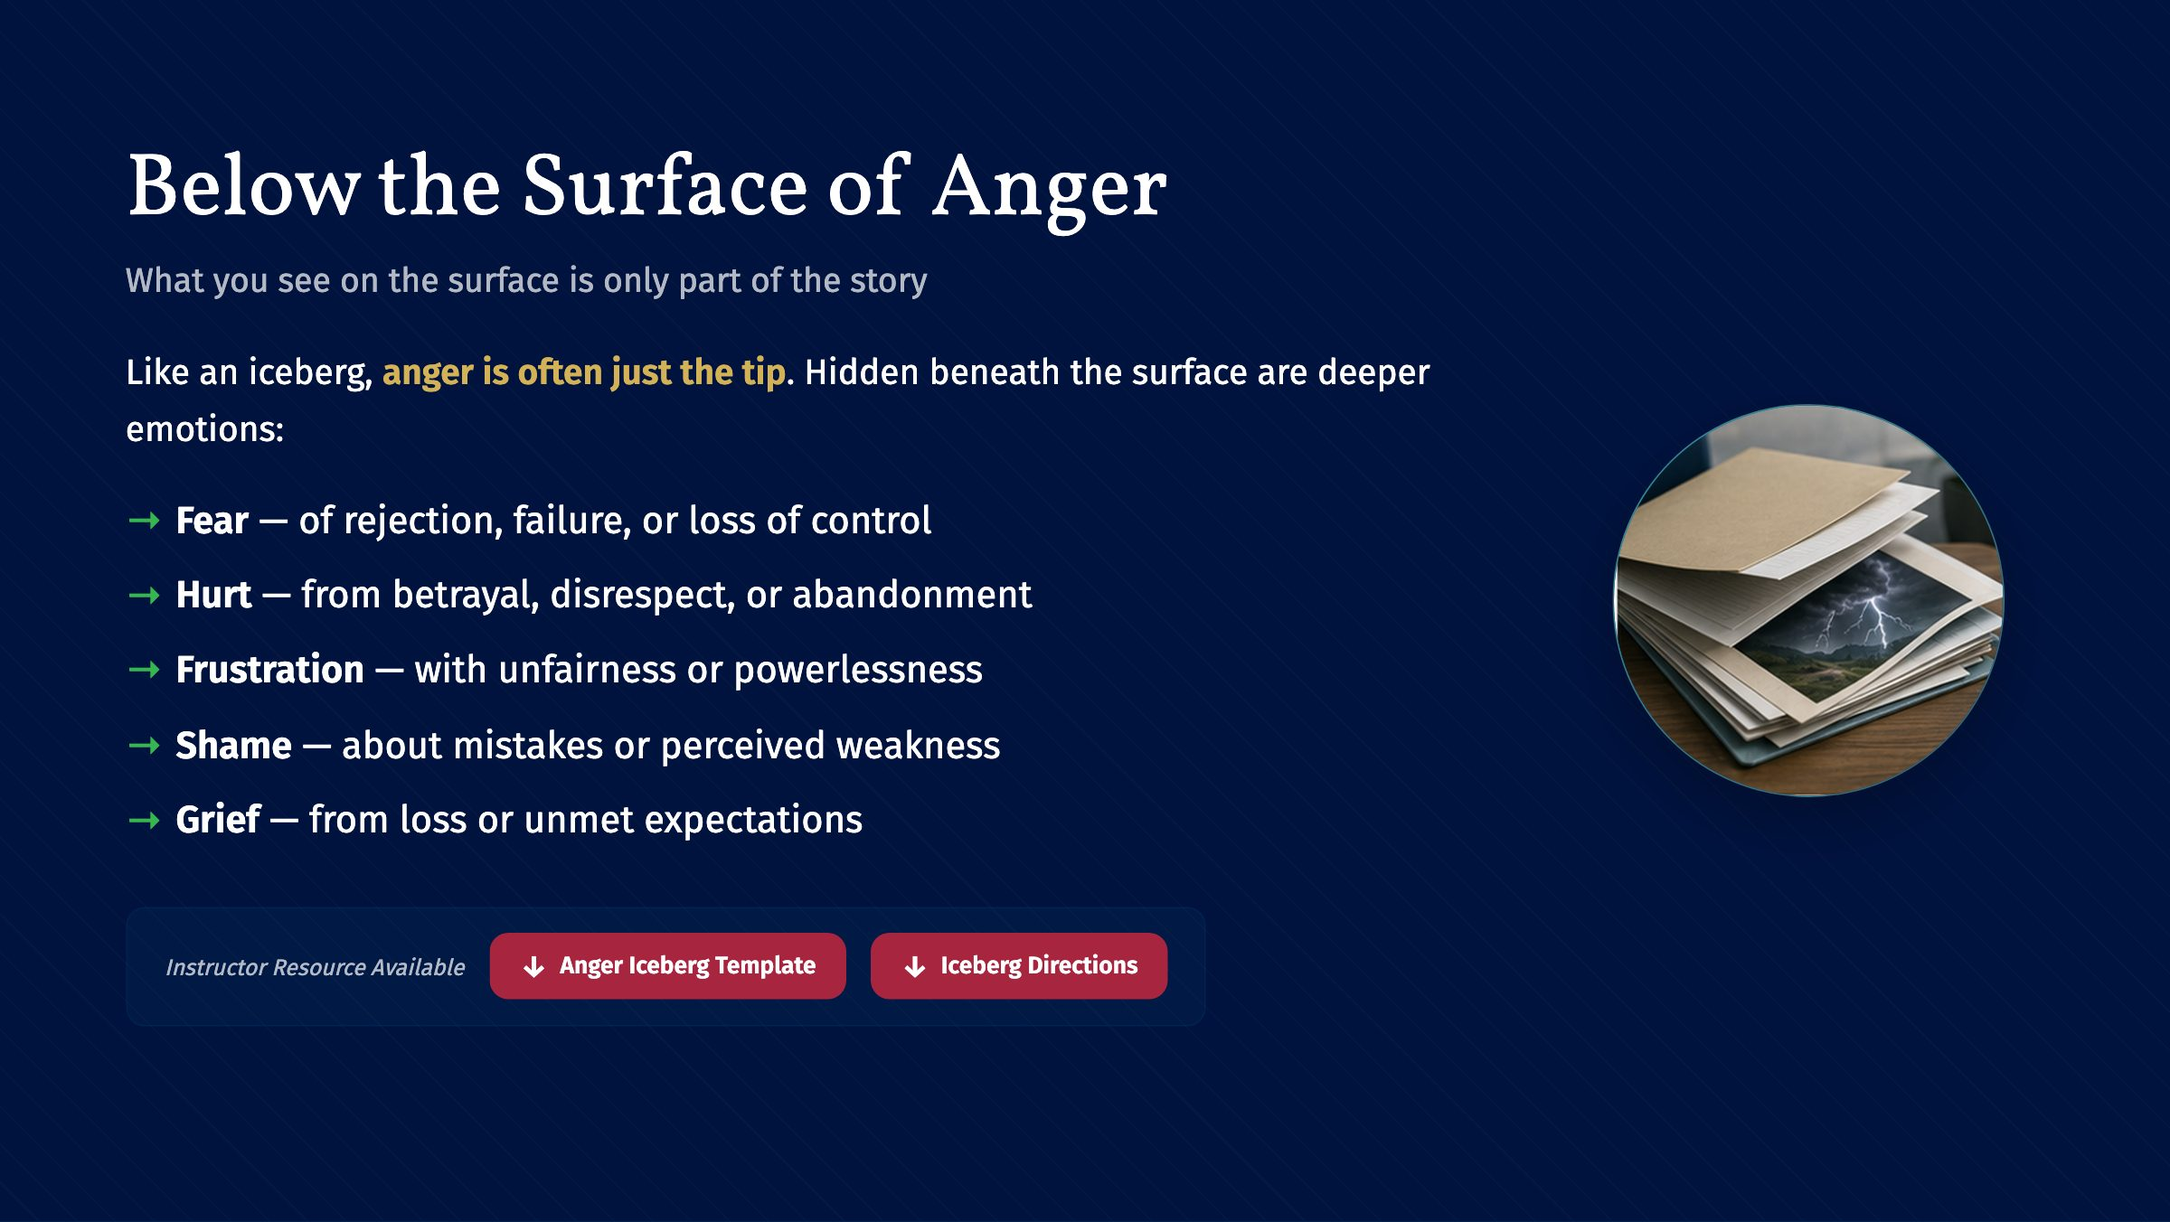
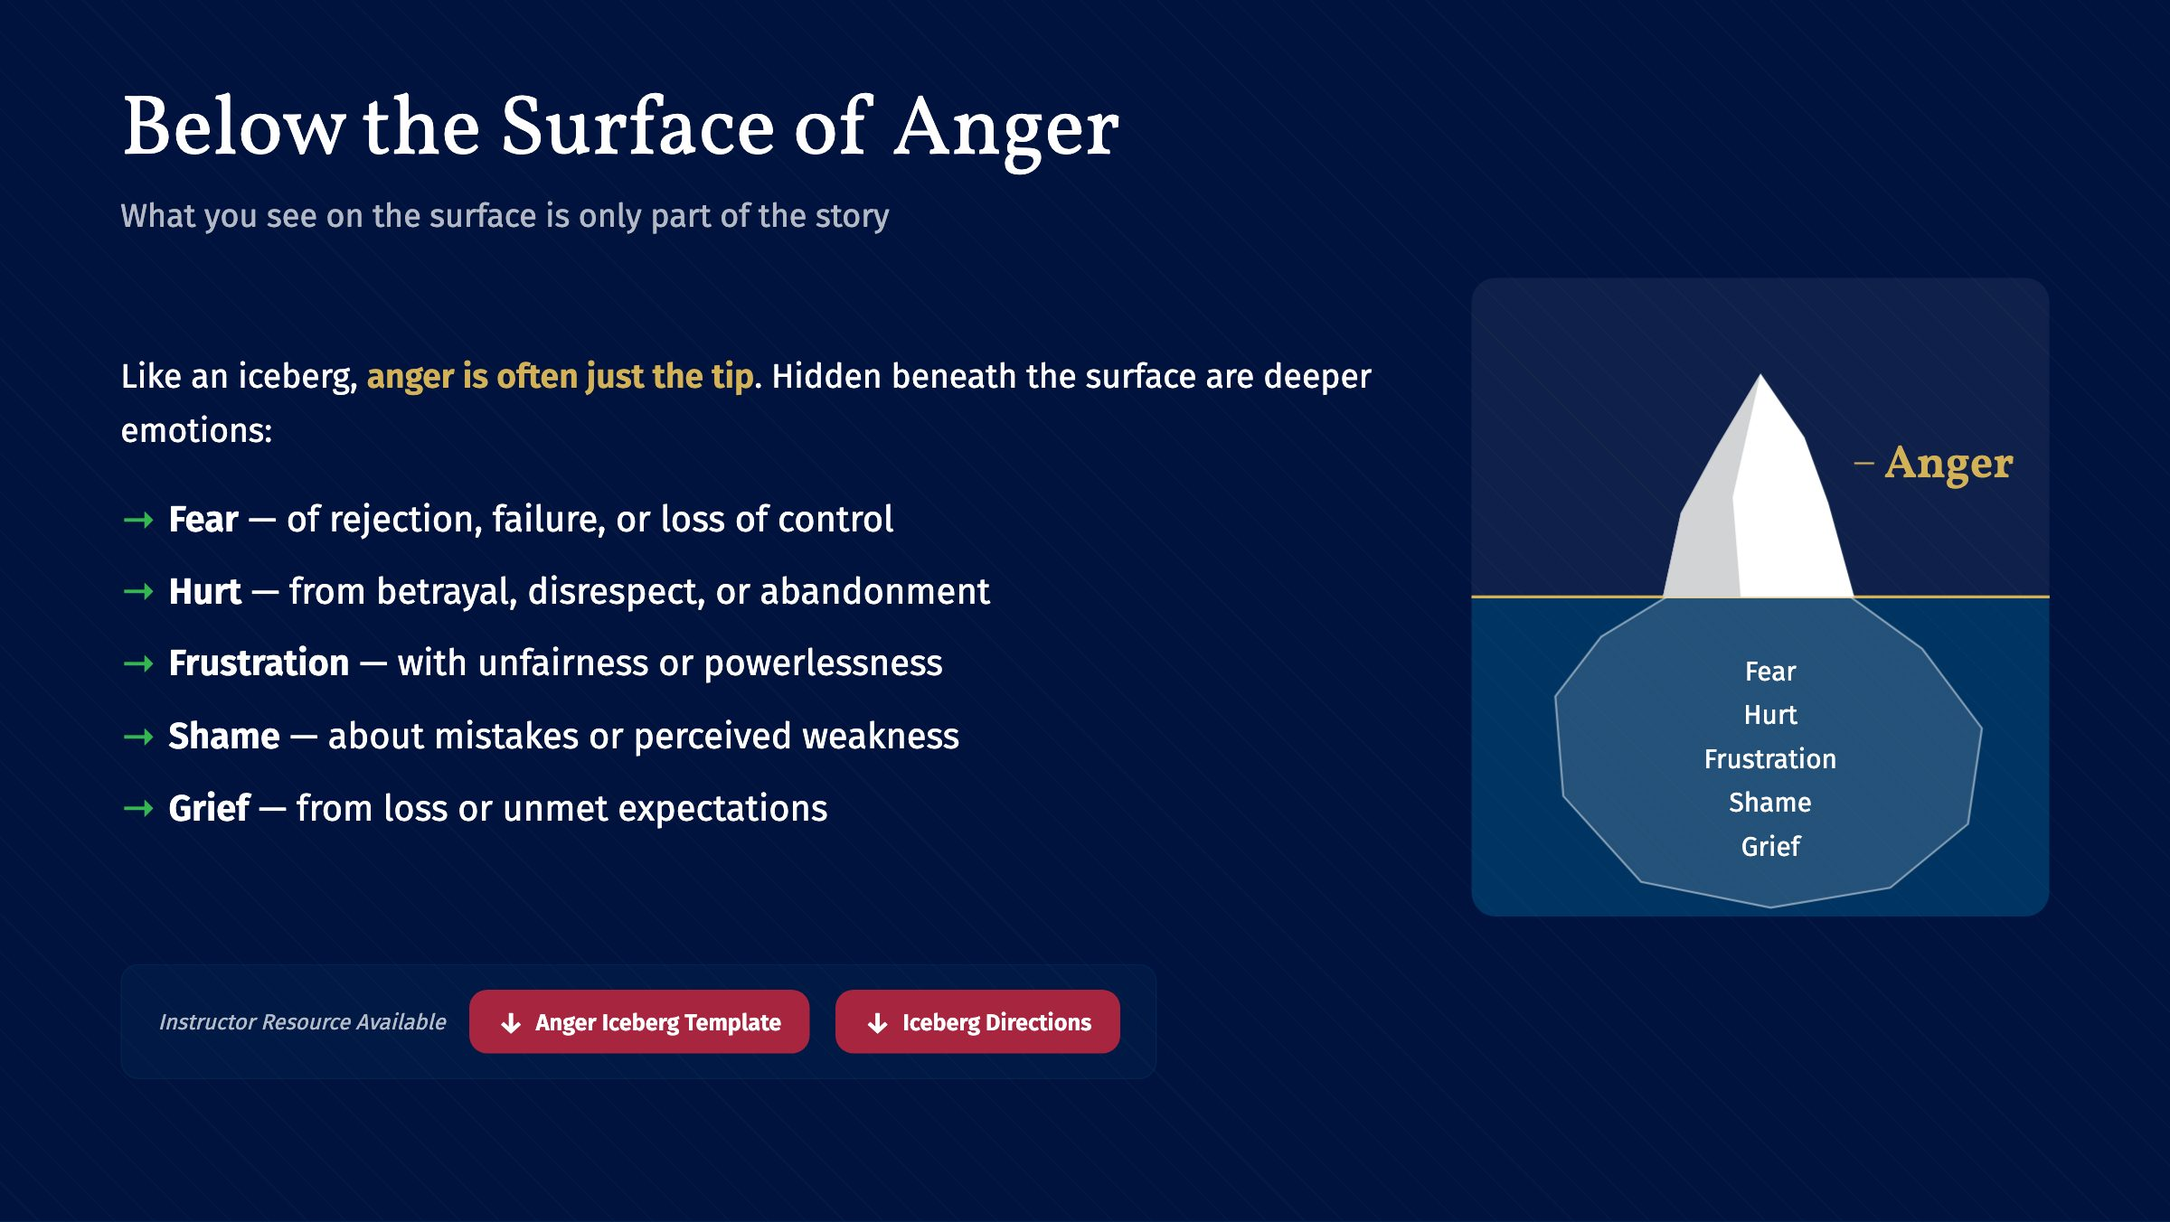
feat: draw the Anger Iceberg on the Controlling Anger cover, lesson and closing
- Showcase Level 3 pilot. The iceberg is drawn in the page from palette
  colors: on the cover, on slide 9 in place of the small round picture,
  and on the closing. Cover and closing share one scene, a gold waterline
  across the slide with the title above it and the subtitle below.
- Motion: the tip and the word Anger appear, then the hidden mass and the
  five feelings surface in turn, once, on the cover and on slide 9. The
  closing is still. Reduced motion and print show the finished picture.
- The closing's take-home line is now its largest text.
- Every closing carries the rubric button (Britt): added here and on
  Problem Solving, where it was missing. File links mark when each file
  is used in class, so none moved.
- The sea is a layer over a plain royal slide, so BeSpoke still reads the
  title background as solid and no ready-made look shares more than 5
  choices with this lesson.
- Slide 9 drawn at 94% for the larger picture. Phones keep the old cover
  and closing; the drawing shows on slide 9 there.
- Print pictures retaken, fingerprints regenerated.

diff --git a/lesson-controlling-anger/index.html b/lesson-controlling-anger/index.html
@@ -2969,15 +2969,6 @@
       .slide-video h2 { margin-bottom: 1rem; }
       .slide-video .video-wrapper { max-width: min(73.125rem, calc((100vh - 14.75rem) * 16 / 9)); }
 
-      /* Slide 1 (title): the cover logo is 14.5rem wide, the size it
-         had on a 1920x1080 screen before this change; the heading's own
-         padding is 1.25rem; and the gaps under the subtitle and the two
-         buttons are tighter. */
-      .slide-title .logo { max-width: 14.5rem; margin-bottom: 1.25rem; }
-      .slide-title h1 { padding-top: 1.25rem; padding-bottom: 1.25rem; }
-      .slide-title .subtitle { margin-bottom: 1rem; }
-      .slide-title .title-resource-links { margin-bottom: 1.25rem; }
-
       /* Slide 26 (statement): the discussion box sits 1.25rem under the
          line above it with 1rem of its own padding. Its margin is set
          inline, so that needs !important. */
@@ -3117,6 +3108,218 @@
     /* Sidebar "P" badges: white on the --accent green was 2.66:1 at 0.6rem.
        Royal is 6.77:1 (navy --dark would reach only 4.00:1). */
     .wippea-badge.p { color: var(--royal); }
+
+    /* Showcase Level 3 2026-11: the Anger Iceberg, this lesson's one picture.
+       It is drawn in the page from palette colors, so it is sharp on any
+       screen and needs no image file. It appears three times: on the cover,
+       on slide 9 where the idea is taught, and on the closing. Sizes inside
+       the drawing are attributes in the drawing's own units, not CSS px, so
+       the px-to-rem converter leaves them alone. */
+    .iceberg { display: block; overflow: visible; }
+    .iceberg .ib-water { stroke: var(--gold); stroke-width: 3; }
+    .iceberg .ib-below { fill: rgba(255, 255, 255, 0.14); stroke: rgba(255, 255, 255, 0.5); stroke-width: 2; }
+    .iceberg .ib-tip { fill: var(--light); }
+    .iceberg .ib-tip-shade { fill: var(--offwhite); }
+    .iceberg .ib-lead { stroke: var(--gold); stroke-width: 2; }
+    .iceberg .ib-anger { font-family: var(--font-heading); font-weight: 600; fill: var(--gold); }
+    .iceberg .ib-feelings { font-family: var(--font-body); fill: var(--light); }
+
+    /* Motion: the picture builds in the order the lesson teaches it. The tip
+       and its name are there first, then what is hidden surfaces: the mass
+       below the water, then each feeling in turn. It plays once when the
+       slide opens, on the cover and on slide 9 (slower there, for talking
+       over). The closing is still; the confetti plays there. With animation
+       off (reduced motion, print) the finished picture shows. */
+    @keyframes ibFade { from { opacity: 0; } to { opacity: 1; } }
+    @keyframes ibSurface { from { opacity: 0; transform: translateY(18px); } to { opacity: 1; transform: none; } }
+    .slide-title.active .ib-anger, .slide-title.active .ib-lead,
+    .iceberg-slide.active .ib-anger, .iceberg-slide.active .ib-lead { animation: ibFade 0.6s ease-out 0.5s both; }
+    .slide-title.active .ib-below,
+    .iceberg-slide.active .ib-below { animation: ibSurface 1.1s cubic-bezier(0.16, 1, 0.3, 1) 0.9s both; }
+    .slide-title.active .ib-feelings text,
+    .iceberg-slide.active .ib-feelings text { animation: ibSurface 0.7s cubic-bezier(0.16, 1, 0.3, 1) both; }
+    .slide-title.active .ib-feelings text:nth-child(1) { animation-delay: 1.6s; }
+    .slide-title.active .ib-feelings text:nth-child(2) { animation-delay: 1.82s; }
+    .slide-title.active .ib-feelings text:nth-child(3) { animation-delay: 2.04s; }
+    .slide-title.active .ib-feelings text:nth-child(4) { animation-delay: 2.26s; }
+    .slide-title.active .ib-feelings text:nth-child(5) { animation-delay: 2.48s; }
+    .iceberg-slide.active .ib-feelings text:nth-child(1) { animation-delay: 1.8s; }
+    .iceberg-slide.active .ib-feelings text:nth-child(2) { animation-delay: 2.3s; }
+    .iceberg-slide.active .ib-feelings text:nth-child(3) { animation-delay: 2.8s; }
+    .iceberg-slide.active .ib-feelings text:nth-child(4) { animation-delay: 3.3s; }
+    .iceberg-slide.active .ib-feelings text:nth-child(5) { animation-delay: 3.8s; }
+
+    /* Slide 9: the iceberg stands where a small round picture was, in its own
+       panel with the sea drawn in. */
+    .split-visual .iceberg {
+      width: min(100%, 16rem);
+      height: auto;
+      border-radius: 1rem;
+      background: linear-gradient(to bottom, rgba(255, 255, 255, 0.06) 0 50%, rgba(0, 123, 175, 0.32) 50% 100%);
+    }
+    @media (min-width: 901px) {
+      .iceberg-slide .split-layout { gap: 3rem; }
+      .iceberg-slide .split-visual { flex: 0 0 24rem; }
+      .split-visual .iceberg { width: 100%; }
+    }
+
+    /* Phones keep the cover and the closing they have; the picture is on
+       slide 9 there. */
+    .slide-title .iceberg, .slide-closing .iceberg { display: none; }
+
+    @media (min-width: 769px) {
+      /* Cover and closing share one scene: a gold waterline across the whole
+         slide at mid-height, with the sea below it. Each picture is centered
+         on that line, so its own waterline (hidden here) lies along it. A
+         picture is at most 33.75rem wide: any larger and its lower edge
+         would reach the navigation hint. */
+      /* Two classes, so the plain royal ground out-ranks the theme's
+         `.theme-dark .slide-closing` mauve gradient. */
+      .slide.slide-title, .slide.slide-closing {
+        padding: 0;
+        text-align: left;
+        background: var(--royal);
+      }
+      /* The sea is a picture layer over the plain royal slide, like the
+         iceberg itself. (Painted on the slide's own background it read to
+         BeSpoke as a gradient title, too close to two of its starting
+         looks; Britt, 2026-11-10.) The layer takes over the slide's spacer
+         pseudo-element, which these two slides do not use past phones. */
+      .slide-title.active::before, .slide-closing.active::before {
+        content: "";
+        position: absolute;
+        inset: 0;
+        flex: none;
+        min-height: 0;
+        pointer-events: none;
+        background:
+          linear-gradient(var(--gold), var(--gold)) 0 50% / 100% 3px no-repeat,
+          linear-gradient(to bottom, var(--dark), var(--royal)) 0 100% / 100% 50% no-repeat;
+      }
+      .slide-title .iceberg, .slide-closing .iceberg {
+        display: block;
+        position: absolute;
+        top: 50%;
+        height: auto;
+        aspect-ratio: 580 / 640;
+        transform: translateY(-50%);
+        pointer-events: none; /* its empty corners must not cover a button */
+      }
+      .slide-title .ib-water, .slide-closing .ib-water { display: none; }
+
+      /* Cover: the title stands above the waterline and the subtitle below
+         it. The PDF buttons and the copyright line sit at the bottom left,
+         smaller than before. The framed title and the short rule under it
+         are gone; the waterline does that work. */
+      .slide-title .iceberg { right: 2.5rem; width: min(33.75rem, calc(100% - 31rem)); }
+      .slide-title .logo {
+        position: absolute;
+        left: 5rem;
+        top: 2.25rem;
+        max-width: 12.5rem;
+        padding: 0.6rem 0.85rem;
+        margin: 0;
+      }
+      .slide-title h1 {
+        position: absolute;
+        left: 5rem;
+        bottom: calc(50% + 1.75rem);
+        width: min(34rem, 42%);
+        margin: 0;
+        padding: 0;
+        border: 0;
+        border-radius: 0;
+        display: block;
+        font-size: 4.6rem;
+        line-height: 1.02;
+        text-align: left;
+      }
+      .slide-title .divider { display: none; }
+      .slide-title .subtitle {
+        position: absolute;
+        left: 5rem;
+        top: calc(50% + 1.75rem);
+        width: min(34rem, 42%);
+        margin: 0;
+        font-size: 1.7rem;
+        line-height: 1.35;
+        color: var(--light);
+        text-align: left;
+      }
+      .slide-title .title-resource-links {
+        position: absolute;
+        left: 5rem;
+        bottom: 5.5rem;
+        margin: 0;
+        padding: 0;
+        gap: 0.6rem;
+        background: none;
+        border: 0;
+      }
+      .slide-title .title-resource-links .download-btn,
+      .slide-title .title-resource-links .download-btn:first-of-type {
+        font-size: 0.9rem;
+        padding: 0.5rem 0.85rem;
+        background: none;
+        border: 1.5px solid var(--gold);
+        color: var(--gold);
+      }
+      .slide-title .copyright { left: 5rem; color: rgba(255, 255, 255, 0.7); }
+
+      /* Closing: the take-home line is the largest text, above the
+         waterline; the quote and the congratulations line follow below it.
+         The order on screen is set here; the markup keeps its order. Two of
+         the sizes are set inline on the headings, so they need !important. */
+      .slide-closing .iceberg { left: 2.5rem; width: min(33.75rem, calc(100% - 36.5rem)); }
+      .slide-closing .closing-box {
+        position: absolute;
+        top: 0;
+        bottom: 0;
+        right: 5rem;
+        width: min(32rem, 44%);
+        max-width: none;
+        padding: 0;
+        border-radius: 0;
+        background: none;
+        display: grid;
+        grid-template-rows: 50% auto auto;
+        align-content: start;
+        text-align: left;
+      }
+      .slide-closing .closing-box h3 {
+        grid-row: 1;
+        align-self: end;
+        margin: 0 0 1.75rem;
+        font-size: 3.8rem !important;
+        line-height: 1.04;
+        text-wrap: balance;
+        color: var(--gold);
+      }
+      .slide-closing .closing-box p {
+        grid-row: 2;
+        margin: 1.75rem 0 0;
+        font-size: 1.5rem;
+        line-height: 1.5;
+      }
+      .slide-closing .closing-box h2 {
+        grid-row: 3;
+        margin: 1.5rem 0 0 !important;
+        font-family: var(--font-body);
+        font-size: 1.25rem !important;
+        font-weight: 600;
+        color: var(--light) !important;
+      }
+      .slide-closing .closing-box .divider { display: none; }
+      /* The rubric button marks when the rubric is handed out (Britt). */
+      .slide-closing .closing-box .download-resource {
+        grid-row: 4;
+        margin-top: 1.25rem;
+        padding: 0;
+        background: none;
+        border: 0;
+      }
+      .slide-closing .closing-box .download-prompt { color: rgba(255, 255, 255, 0.75); }
+    }
   </style>
   </head>
 <body>
@@ -3168,6 +3371,21 @@
           <a href="Teacher-Resources/Controlling_Anger_Teachers_Guide.pdf" target="_blank" rel="noopener noreferrer" class="download-btn">Teacher's Guide PDF</a>
         </div>
         <p class="copyright">Copyright &copy; 2026 WV Adult Basic Education</p>
+        <svg class="iceberg" viewBox="0 0 580 640" role="img" aria-label="An iceberg. Above the water: anger. Hidden below the water: fear, hurt, frustration, shame and grief.">
+          <line class="ib-water" x1="0" y1="320" x2="580" y2="320"/>
+          <polygon class="ib-below" points="196,320 380,320 452,372 512,452 498,548 420,612 300,632 170,606 92,520 84,420 130,360"/>
+          <polygon class="ib-tip" points="290,96 334,160 358,226 384,320 192,320 210,236 246,170"/>
+          <polygon class="ib-tip-shade" points="290,96 246,170 210,236 192,320 270,320 262,220"/>
+          <line class="ib-lead" x1="384" y1="186" x2="404" y2="186"/>
+          <text class="ib-anger" x="414" y="200" font-size="46">Anger</text>
+          <g class="ib-feelings" font-size="27" text-anchor="middle">
+            <text x="300" y="404">Fear</text>
+            <text x="300" y="448">Hurt</text>
+            <text x="300" y="492">Frustration</text>
+            <text x="300" y="536">Shame</text>
+            <text x="300" y="580">Grief</text>
+          </g>
+        </svg>
       </section>
 
       <!-- Slide 2: Hook Video -->
@@ -3291,7 +3509,7 @@
       </section>
 
       <!-- Slide 9: Anger Iceberg Concept -->
-      <section class="slide" data-chapter="3" style="--fit: 0.98">
+      <section class="slide iceberg-slide" data-chapter="3" style="--fit: 0.94;">
         <h2>Below the Surface of Anger</h2>
         <p class="slide-lede">What you see on the surface is only part of the story</p>
         <div class="split-layout">
@@ -3306,9 +3524,21 @@
             </ul>
           </div>
           <div class="split-visual">
-            <div class="visual-circle">
-              <img src="images/generated-context/beneath-surface.png" alt="" aria-hidden="true" />
-            </div>
+            <svg class="iceberg" viewBox="0 0 580 640" aria-hidden="true">
+              <line class="ib-water" x1="0" y1="320" x2="580" y2="320"/>
+              <polygon class="ib-below" points="196,320 380,320 452,372 512,452 498,548 420,612 300,632 170,606 92,520 84,420 130,360"/>
+              <polygon class="ib-tip" points="290,96 334,160 358,226 384,320 192,320 210,236 246,170"/>
+              <polygon class="ib-tip-shade" points="290,96 246,170 210,236 192,320 270,320 262,220"/>
+              <line class="ib-lead" x1="384" y1="186" x2="404" y2="186"/>
+              <text class="ib-anger" x="414" y="200" font-size="46">Anger</text>
+              <g class="ib-feelings" font-size="27" text-anchor="middle">
+                <text x="300" y="404">Fear</text>
+                <text x="300" y="448">Hurt</text>
+                <text x="300" y="492">Frustration</text>
+                <text x="300" y="536">Shame</text>
+                <text x="300" y="580">Grief</text>
+              </g>
+            </svg>
           </div>
         </div>
         <div class="download-resource">
@@ -3967,6 +4197,21 @@
       <!-- Slide 30: Closing -->
       <section class="slide slide-closing" data-chapter="7" id="closingSlide">
         <div class="confetti-container" id="confettiContainer"></div>
+        <svg class="iceberg" viewBox="0 0 580 640" role="img" aria-label="An iceberg. Above the water: anger. Hidden below the water: fear, hurt, frustration, shame and grief.">
+          <line class="ib-water" x1="0" y1="320" x2="580" y2="320"/>
+          <polygon class="ib-below" points="196,320 380,320 452,372 512,452 498,548 420,612 300,632 170,606 92,520 84,420 130,360"/>
+          <polygon class="ib-tip" points="290,96 334,160 358,226 384,320 192,320 210,236 246,170"/>
+          <polygon class="ib-tip-shade" points="290,96 246,170 210,236 192,320 270,320 262,220"/>
+          <line class="ib-lead" x1="384" y1="186" x2="404" y2="186"/>
+          <text class="ib-anger" x="414" y="200" font-size="46">Anger</text>
+          <g class="ib-feelings" font-size="27" text-anchor="middle">
+            <text x="300" y="404">Fear</text>
+            <text x="300" y="448">Hurt</text>
+            <text x="300" y="492">Frustration</text>
+            <text x="300" y="536">Shame</text>
+            <text x="300" y="580">Grief</text>
+          </g>
+        </svg>
         <div class="closing-box">
           <h2 style="color: var(--gold); font-size: 2.75rem; margin-bottom: 1.5rem;">
             Congratulations, you have completed this lesson!
@@ -3974,6 +4219,10 @@
           <p>&ldquo;For every minute you remain angry, you give up sixty seconds of peace of mind.&rdquo; &mdash; Ralph Waldo Emerson</p>
           <div class="divider"></div>
           <h3 style="font-size: 1.9rem;">Choose Peace. Choose Growth.</h3>
+          <div class="download-resource">
+            <span class="download-prompt">Instructor Resource Available</span>
+            <a href="Handouts/Controlling Anger Rubric.pdf" target="_blank" rel="noopener noreferrer" class="download-btn">Course Rubric</a>
+          </div>
         </div>
       </section>
 

diff --git a/lesson-problem-solving-and-decision-making/index.html b/lesson-problem-solving-and-decision-making/index.html
@@ -3948,6 +3948,10 @@
           <p>&ldquo;In the middle of difficulty lies opportunity.&rdquo; &mdash; Albert Einstein</p>
           <div class="divider"></div>
           <h2>Think. Decide. Act.</h2>
+          <div class="download-resource">
+            <span class="download-prompt">Instructor Resource Available</span>
+            <a href="Handouts/Problem_Solving__Decision_Making_Rubric.pdf" target="_blank" rel="noopener noreferrer" class="download-btn">Rubric</a>
+          </div>
         </div>
       </section>
 

diff --git a/lesson-problem-solving-and-decision-making/print/manifest.js b/lesson-problem-solving-and-decision-making/print/manifest.js
@@ -2,7 +2,7 @@
 window.SPOKES_PRINT_MANIFEST = {
   "version": 1,
   "lessonTitle": "Problem-Solving & Decision-Making",
[2 lines of base64/hex data omitted]
   "pictures": [
     {
       "slide": 1,

diff --git a/lesson-controlling-anger/print/manifest.js b/lesson-controlling-anger/print/manifest.js
@@ -2,7 +2,7 @@
 window.SPOKES_PRINT_MANIFEST = {
   "version": 1,
   "lessonTitle": "Controlling Anger",
[2 lines of base64/hex data omitted]
   "pictures": [
     {
       "slide": 1,
